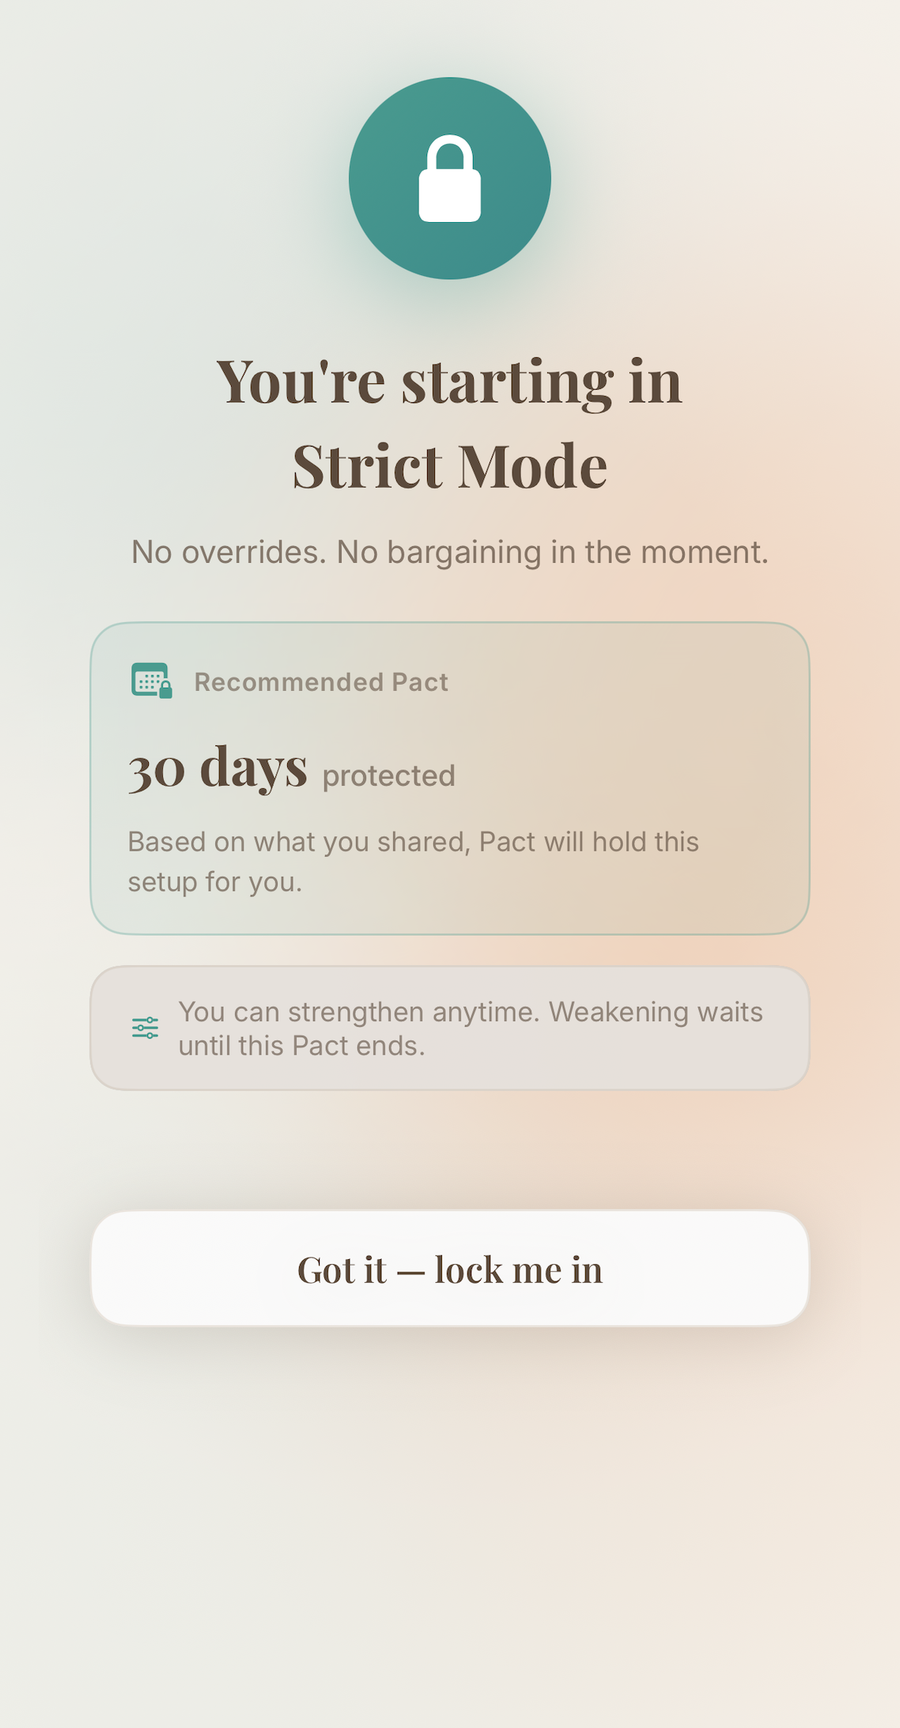
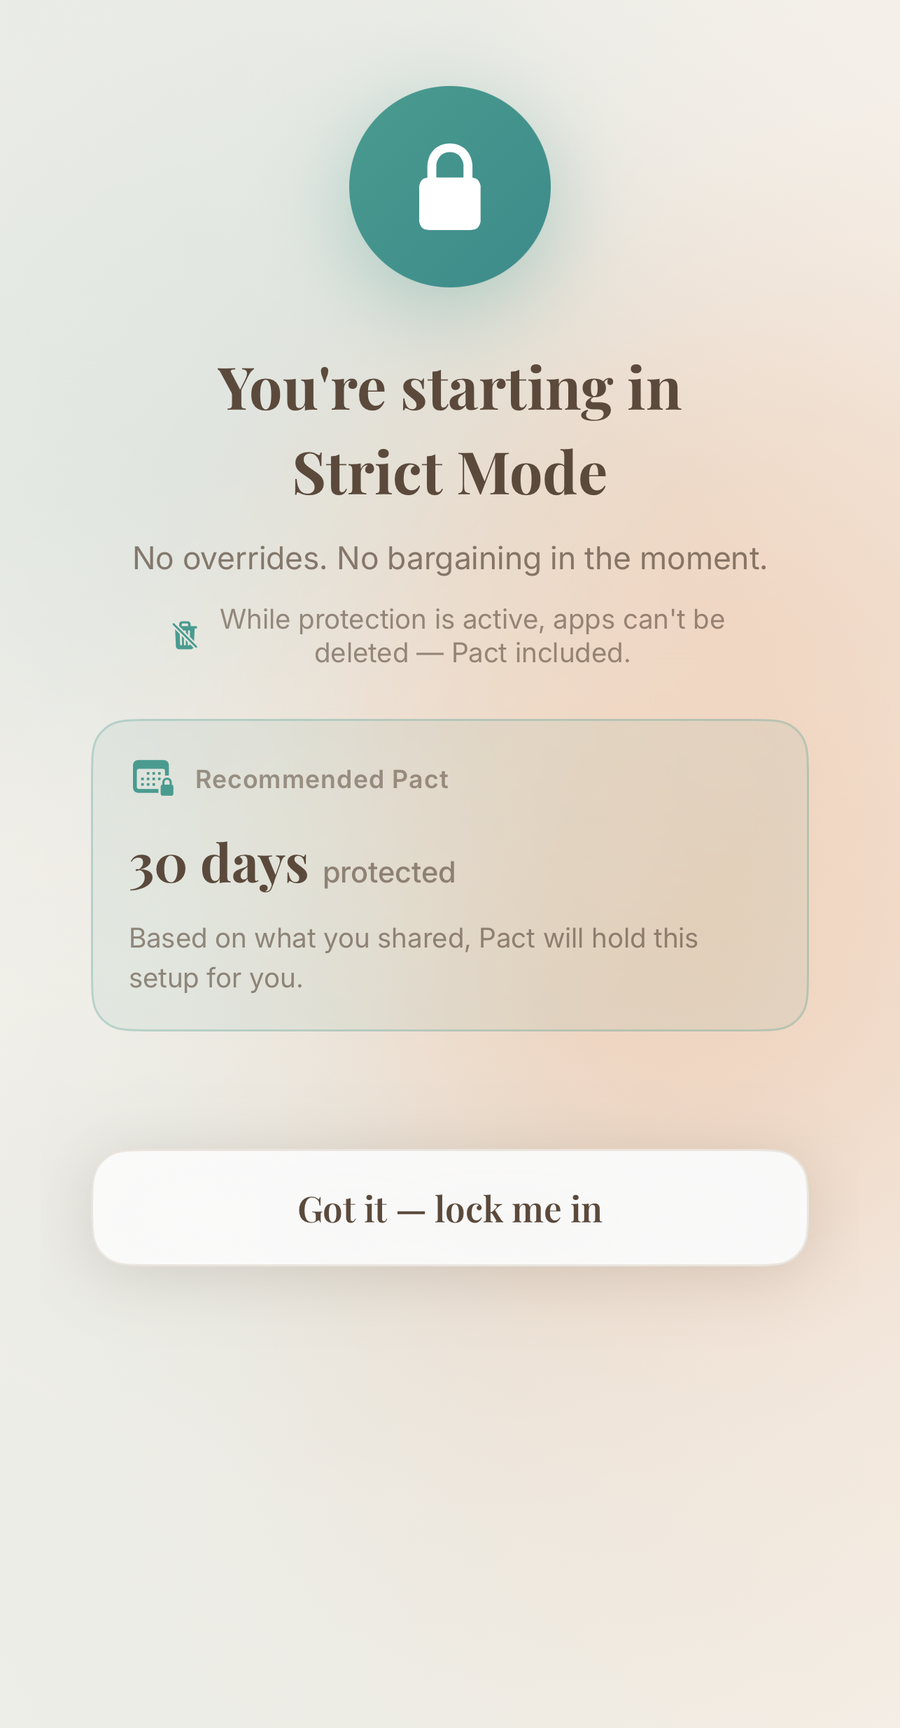
Update strict mode image and privacy link cache busting

diff --git a/index.html b/index.html
@@ -1263,7 +1263,7 @@
                   <img src="assets/pact-strict-clean.png" alt="Strict Mode lock screen" loading="lazy" decoding="async" />
                 </div>
                 <div class="clean-phone dark strict-front">
-                  <img src="assets/pact-strict-onboarding-clean.png?v=20260703-source" alt="Strict Mode onboarding screen showing a recommended 30 day protected Pact" loading="lazy" decoding="async" />
+                  <img src="assets/pact-strict-onboarding-clean.png?v=20260706-delete-lock" alt="Strict Mode onboarding screen showing a recommended 30 day protected Pact" loading="lazy" decoding="async" />
                 </div>
               </div>
             </div>
@@ -1366,7 +1366,7 @@
           <div class="footer-links">
             <a href="/support/">Support</a>
             <!-- TODO: point Privacy to pactapp.tech/privacy once the page is live, so the domain matches. -->
-            <a href="https://pact-fbaec.web.app/privacy/" target="_blank" rel="noopener">Privacy</a>
+            <a href="https://pact-fbaec.web.app/privacy/?v=20260707" target="_blank" rel="noopener">Privacy</a>
             <a href="https://www.apple.com/legal/internet-services/itunes/dev/stdeula/" target="_blank" rel="noopener">Apple Terms</a>
           </div>
         </div>

diff --git a/support/index.html b/support/index.html
@@ -20,7 +20,7 @@
       <nav class="nav" aria-label="Main navigation">
         <a href="../">Home</a>
         <a href="./" aria-current="page">Support</a>
-        <a href="https://pact-fbaec.web.app/privacy/" target="_blank" rel="noopener">Privacy</a>
+        <a href="https://pact-fbaec.web.app/privacy/?v=20260707" target="_blank" rel="noopener">Privacy</a>
       </nav>
     </header>
 
@@ -141,7 +141,7 @@
 
     <footer class="site-footer">
       <span>&copy; 2026 Pact. All rights reserved.</span>
-      <a href="https://pact-fbaec.web.app/privacy/" target="_blank" rel="noopener">Privacy</a>
+      <a href="https://pact-fbaec.web.app/privacy/?v=20260707" target="_blank" rel="noopener">Privacy</a>
       <a href="https://www.apple.com/legal/internet-services/itunes/dev/stdeula/" target="_blank" rel="noopener">Apple Terms</a>
       <a href="mailto:[email redacted]">[email redacted]</a>
     </footer>